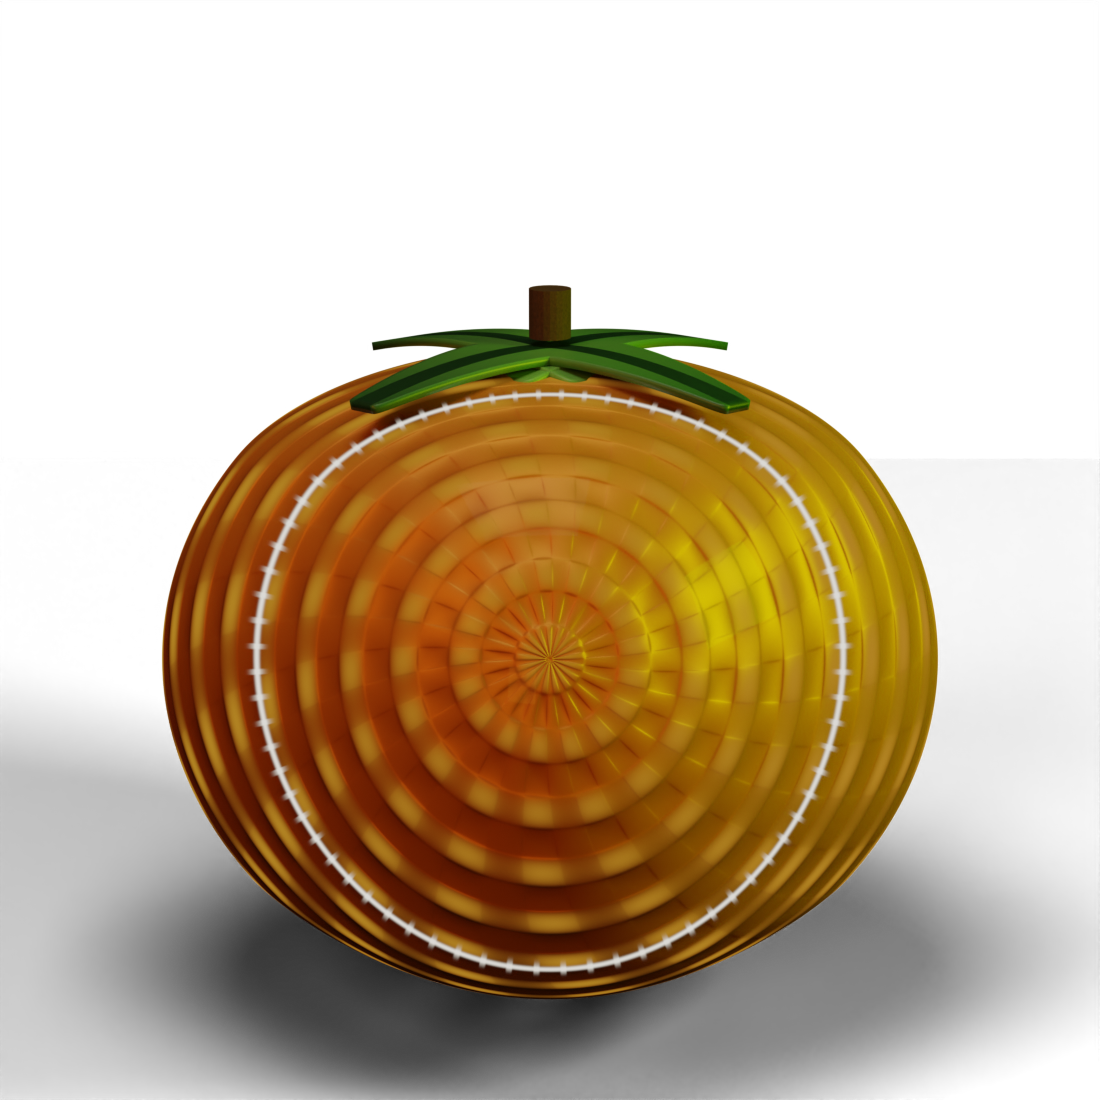
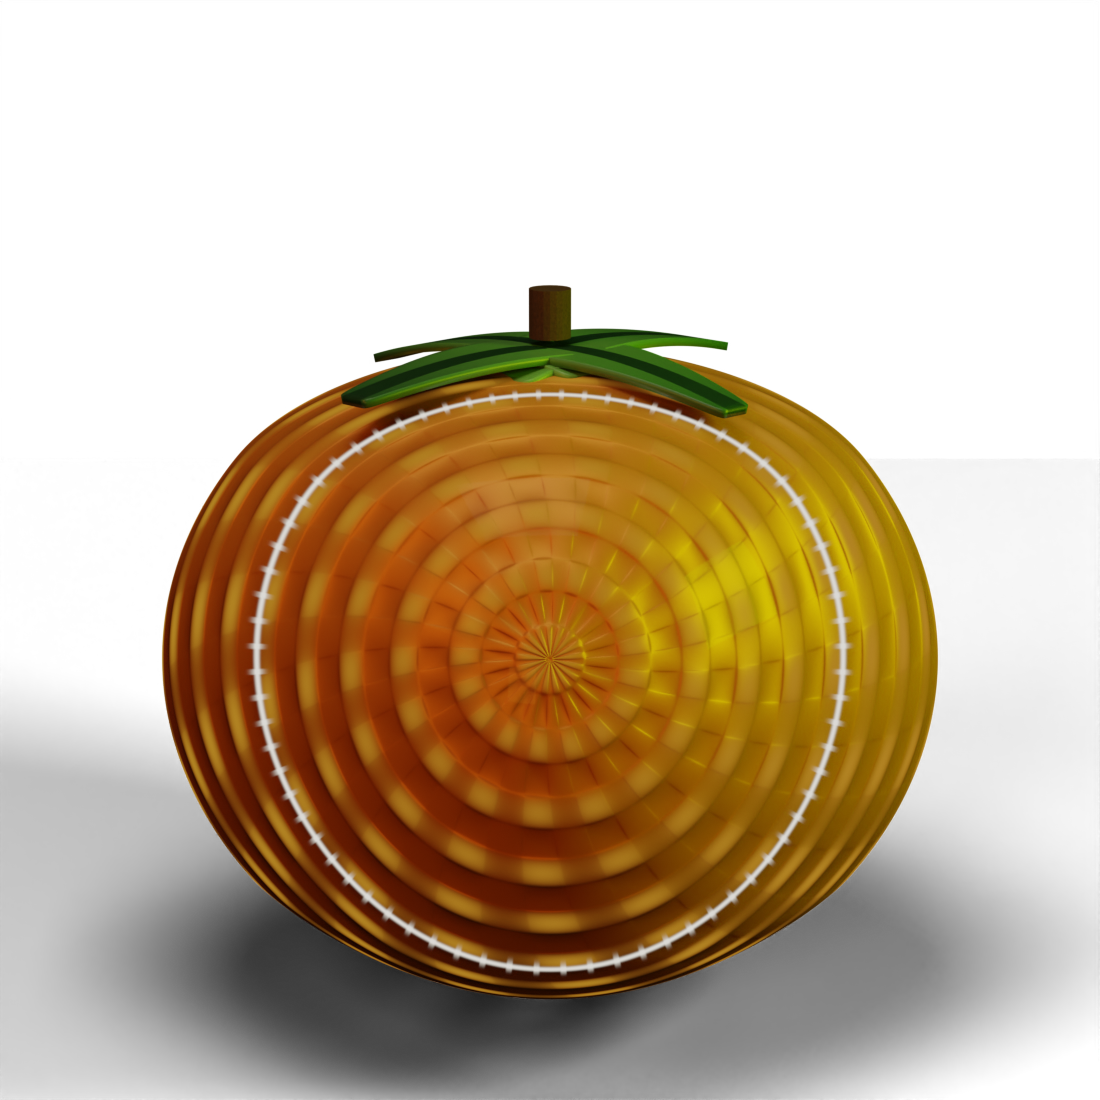
genesis-3d: break mechanical symmetry in the calyx leaves
Four identical leaves read as a stamped X rather than a grown calyx.
Added a small fixed per-leaf variation (angle, length, droop) so the
fourfold structure survives but no two leaves are identical -- matches
the hand-touched, no-two-threads-agree character established elsewhere
in this piece. 1100x1100, 320 samples, 7:19 render time, no errors.

Changed region(s): [[0.3091, 0.2782, 0.5255, 0.3709], [0.5564, 0.3091, 0.68, 0.4018]]

diff --git a/art/genesis-3d/scene.py b/art/genesis-3d/scene.py
@@ -229,8 +229,13 @@ except KeyError: pass
 lnt.links.new(lb.outputs['BSDF'], lout.inputs['Surface'])
 
 top = 0.86 * 1.10 - 0.10
+# four identical leaves read as a stamped X, not a grown calyx; a small
+# fixed per-leaf variation in angle, length and droop breaks the
+# mechanical symmetry without losing the fourfold structure.
+_LEAF_VAR = [(0.0, 1.00, 1.00), (2.5, 0.92, 1.06), (-1.5, 1.05, 0.97), (1.0, 0.96, 1.03)]
 for i in range(4):
     ang = i * (math.pi / 2) + math.pi / 4
+    dang, dlen, ddroop = _LEAF_VAR[i]
     bpy.ops.mesh.primitive_grid_add(x_subdivisions=6, y_subdivisions=10, size=1.0)
     leaf = bpy.context.active_object
     leaf.name = f"Leaf{i}"
@@ -240,11 +245,11 @@ for i in range(4):
         u = (v.co.y + 0.5)              # 0 at base .. 1 at tip
         taper = 1 - 0.85 * max(0.0, u - 0.15) ** 1.3
         v.co.x *= 0.34 * taper
-        v.co.y = (u - 0.5) * 0.86
+        v.co.y = (u - 0.5) * 0.86 * dlen
         # droop: the sepal curls down over the shoulder
-        v.co.z -= 0.30 * (max(0.0, u) ** 1.8)
+        v.co.z -= 0.30 * ddroop * (max(0.0, u) ** 1.8)
     leaf.location = (math.cos(ang) * 0.16, math.sin(ang) * 0.16, top + 0.10)
-    leaf.rotation_euler = (math.radians(18), 0, ang - math.pi/2)
+    leaf.rotation_euler = (math.radians(18), 0, ang - math.pi/2 + math.radians(dang))
     for p in lm.polygons: p.use_smooth = True
     sm = leaf.modifiers.new("s", 'SUBSURF'); sm.levels = 2
     sol = leaf.modifiers.new("t", 'SOLIDIFY'); sol.thickness = 0.022
